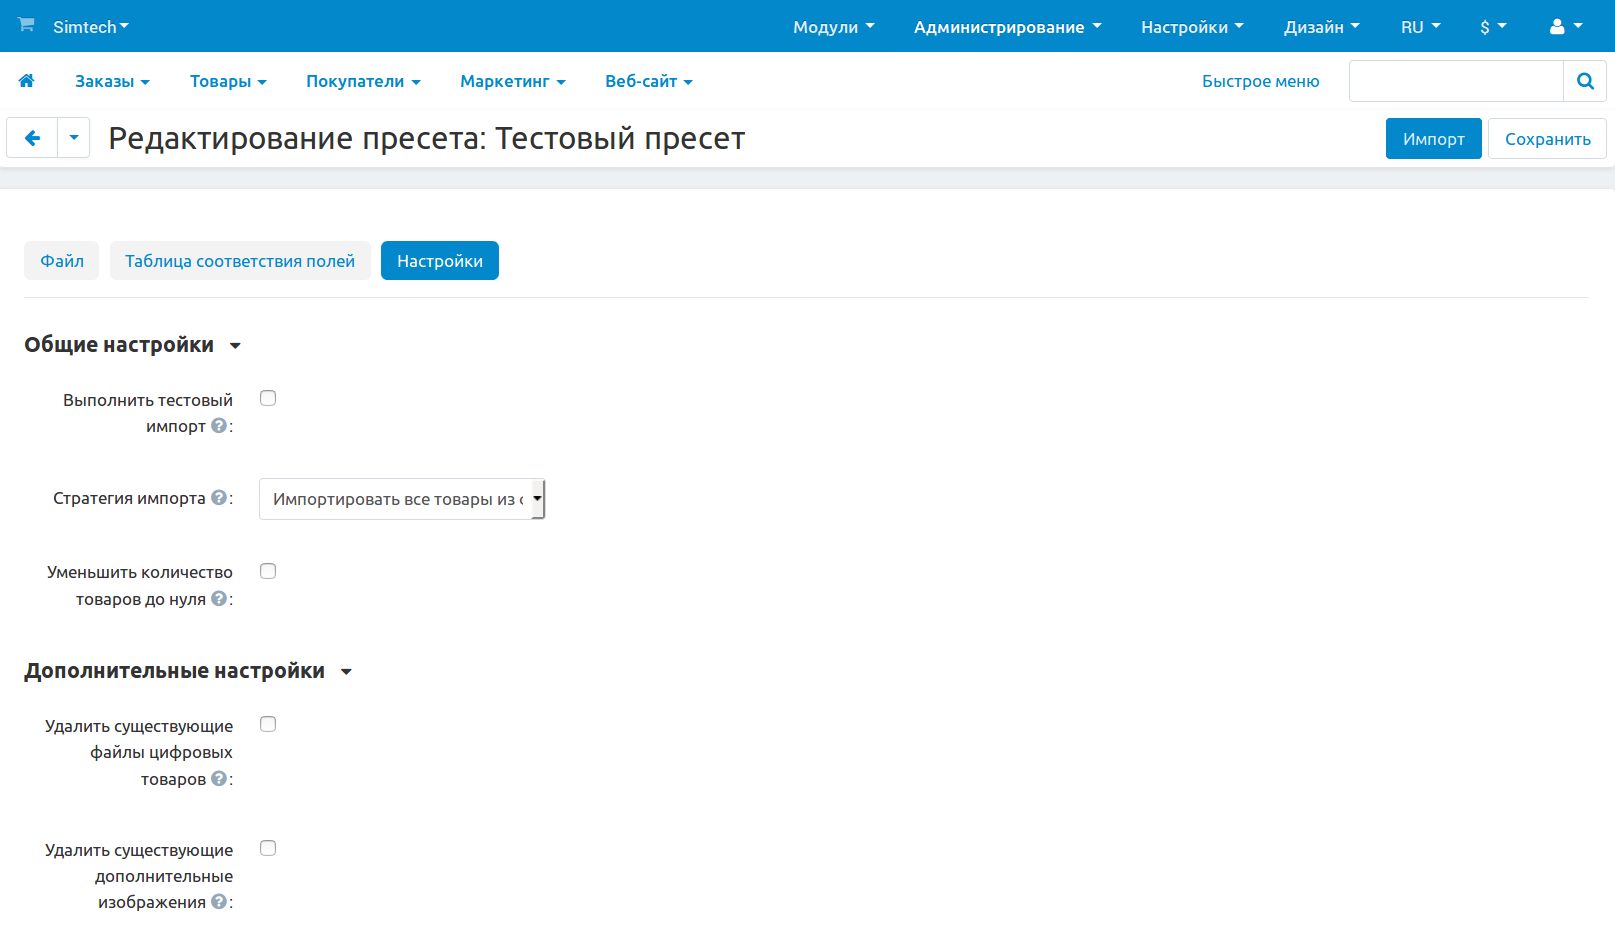
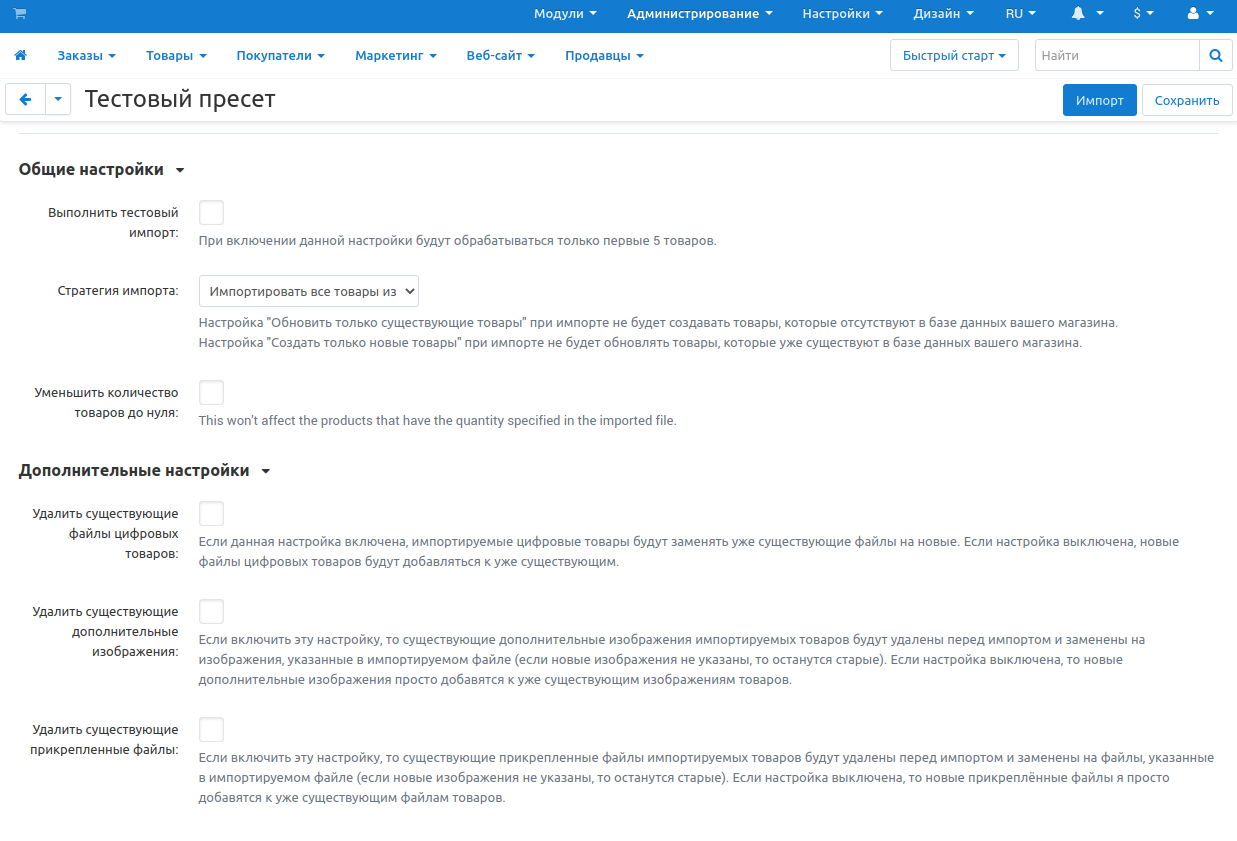
Import presets

diff --git a/ru/user_guide/manage_products/import_export/advanced_product_import.rst b/ru/user_guide/manage_products/import_export/advanced_product_import.rst
@@ -52,7 +52,7 @@
    .. fancybox:: img/advanced_import_file_settings.png
        :alt: Добавление пресета для импорта товаров в CS-Cart.
 
-#. Теперь должна появиться вкладка **Таблица соответствия полей**. Перейдите на неё. Там вы сможете указать, как CS-Cart должен обрабатывать импортируемый файл:
+#. Перейдите на вкладку **Таблица соответствия полей**. Там вы сможете указать, как CS-Cart должен обрабатывать импортируемый файл:
 
    * Сопоставьте столбцы или XML-элементы импортируемого файла с соответствующими свойствами товаров в CS-Cart.
 
@@ -114,7 +114,7 @@
    .. fancybox:: img/advanced_import_additional_settings.png
        :alt: Дополнительные настройки импорта товаров в CS-Cart.
 
-   Также есть две **Дополнительные настройки**, скрытые по умолчанию:
+   Также есть три **Дополнительные настройки**, скрытые по умолчанию:
 
    * **Удалить существующие файлы цифровых товаров** — если включить эту настройку, то при импорте цифровых товаров будут удалены их существующие файлы.
 
@@ -123,6 +123,10 @@
    * **Удалить существующие дополнительные изображения** — если включить эту настройку, то все дополнительные изображения товара будут заменены на изображения, указанные в импортируемом файле.
 
      Когда настройка выключена, то импорт дополнительных изображений для товаров не заменяет уже существующие изображения, а добавляет изображения как дополнительные.
+     
+   * **Удалить существующие прикрепленные файлы** — если включить эту настройку, то существующие прикрепленные файлы импортируемых товаров будут удалены перед импортом и заменены на файлы, указанные в импортируемом файле (если новые изображения не указаны, то останутся старые). 
+   
+     Когда настройка выключена, то новые прикреплённые файлы я просто добавятся к уже существующим файлам товаров.
 
 #. Нажмите **Импортировать**. Если пресет настроен правильно, и данные в импортируемом файле корректны, то товары импортируются.
 

diff --git a/ru/user_guide/users/vendors/import_presets.rst b/ru/user_guide/users/vendors/import_presets.rst
@@ -1,0 +1,34 @@
+******************************************
+Как упростить импорт товаров для продавцов
+******************************************
+
+Самый быстрый способ для продавца разместить свои товары на маркетплейсе — импортировать файл с ними. В разных файлах (например, для Яндекс.Маркета или Wildberries) товары описаны по-разному. Вы можете заранее научить Multi-Vendor распознавать любой файл с товарами. Для этого существуют пресеты импорта. Если есть настроенный пресет, то любой продавец сможет быстро загрузить файл подобного типа.
+
+Как создать пресеты импорта для продавцов
+=========================================
+
+#. Откройте **Администрирование → Импорт данных →Товары**.
+
+#. Создайте :doc:`новый пресет импорта </user_guide/manage_products/import_export/advanced_product_import>`.
+
+#. Новый общий пресет появится в разделе **Пресеты маркетплейса**.
+
+   .. fancybox:: img/list_of_presets.png
+       :alt: Список пресетов маркетплейса и пресетов продавца
+
+Как продавцу импортировать товары через пресеты маркетплейса
+============================================================
+
+После того, как владелец маркетплейса настроит пресеты импорта, все, что остается продавцу — выбрать нужный ему пресет и загрузить файл с товарами. В настройках каждого пресета отображается формат файла, который необходимо загрузить.
+
+.. fancybox:: img/vendor_preset.png
+    :alt: Окно настроек пресета импорта продавца
+
+Продавцы имеют возможность:
+
+* создавать собственные пресеты импорта;
+
+* удалять и редактировать только собственные пресеты;
+
+* дублировать пресеты маркетплейса в раздел **Пресеты продавца**, чтобы получить возможность вносить в них необходимые изменения.
+

diff --git a/en/user_guide/manage_products/import_export/advanced_product_import.rst b/en/user_guide/manage_products/import_export/advanced_product_import.rst
@@ -54,7 +54,7 @@ How To: Import Products and Product Data
        :align: center
        :alt: Adding a product import preset in CS-Cart. 
 
-#. The **Fields mapping** tab should appear now. Switch to it. This is where you tell CS-Cart how to interpret the imported file: 
+#. Switch to the **Fields mapping** tab. This is where you tell CS-Cart how to interpret the imported file: 
 
    * Match the columns or XML elements in the imported file with corresponding product properties in CS-Cart.
 
@@ -118,7 +118,7 @@ How To: Import Products and Product Data
        :align: center
        :alt: Additional settings of an import preset in CS-Cart.
 
-   There are two **Additional settings** hidden by default:
+   There are three **Additional settings** hidden by default:
 
    * **Delete existing files of downloadable products**—if you enable this setting, then importing downloadable products will delete their existing files.
 
@@ -127,6 +127,10 @@ How To: Import Products and Product Data
    * **Delete existing additional images**—if you enable this setting, all the additional images of a product will be replaced with the images specified in the imported file.
 
      When the setting is disabled, importing additional images for a product doesn't repalce the existing additional images, but rather adds new images alongside the existing ones.
+     
+   * **Delete existing attachments**—if you enable this setting, then the existing attachments of the imported products will be replaced with the attachments specified in the imported file (if no attachments are specified, the old attachments will remain).
+   
+     When the setting is disabled, the new attachments will simply be added to the existing attachments.
 
 #. Click **Import**. If your preset is configured properly, and the data in the imported file is correct, your products will be imported.
 

diff --git a/en/user_guide/users/vendors/import_presets.rst b/en/user_guide/users/vendors/import_presets.rst
@@ -1,0 +1,37 @@
+**************************************
+How to: Make Import Easier for Vendors
+**************************************
+
+The quickest way for vendors to upload their products to marketplace is to import a file that contains those products. Files may have the different structure. You can configure the Multi-Vendor to recognize different files—this is what import presets are made for. If you have presets configured, any vendor can use them to upload his products.
+
+How to Create Import Presets for Vendors
+========================================
+
+#. Open the **Administration → Import Data → Products page**.
+
+#. Create a :doc:`new import preset </user_guide/manage_products/import_export/advanced_product_import>`.
+
+#. The new preset will appear in the **Marketplace Presets** section.
+
+   .. image:: img/list_of_presets.png
+       :align: center
+       :alt: List of marketplace and vendor's presets
+
+How Do Vendors Import Products via Marketplace Presets
+======================================================
+
+When import presets are already configured by marketplace owner, everything what is left to do for vendors is to choose a preset and upload the file. Supported file extensions are displayed in the settings of any preset.
+
+.. image:: img/vendor_preset.png
+       :align: center
+       :alt: Settings of the vendors's preset
+
+Vendors have the ability to:
+
+* create their own presets for import;
+
+* delete and edit only their own presets;
+
+* clone the marketplace presets to the **Vendor’s presets section** to get the ability to change them.
+
+

diff --git a/en/user_guide/users/vendors/index.rst b/en/user_guide/users/vendors/index.rst
@@ -32,6 +32,7 @@ View the list of the vendors in the Multi-Vendor administration panel under **Ve
     allow_vendors_to_edit_layout_and_theme
     vendor_categories
     vendor_statuses
+    import_presets
 
 .. toctree::
     :maxdepth: 2

diff --git a/ru/user_guide/users/vendors/index.rst b/ru/user_guide/users/vendors/index.rst
@@ -31,6 +31,7 @@
     vendor_categories
     vendor_group
     vendor_statuses
+    import_presets
 
 .. toctree::
     :maxdepth: 2
